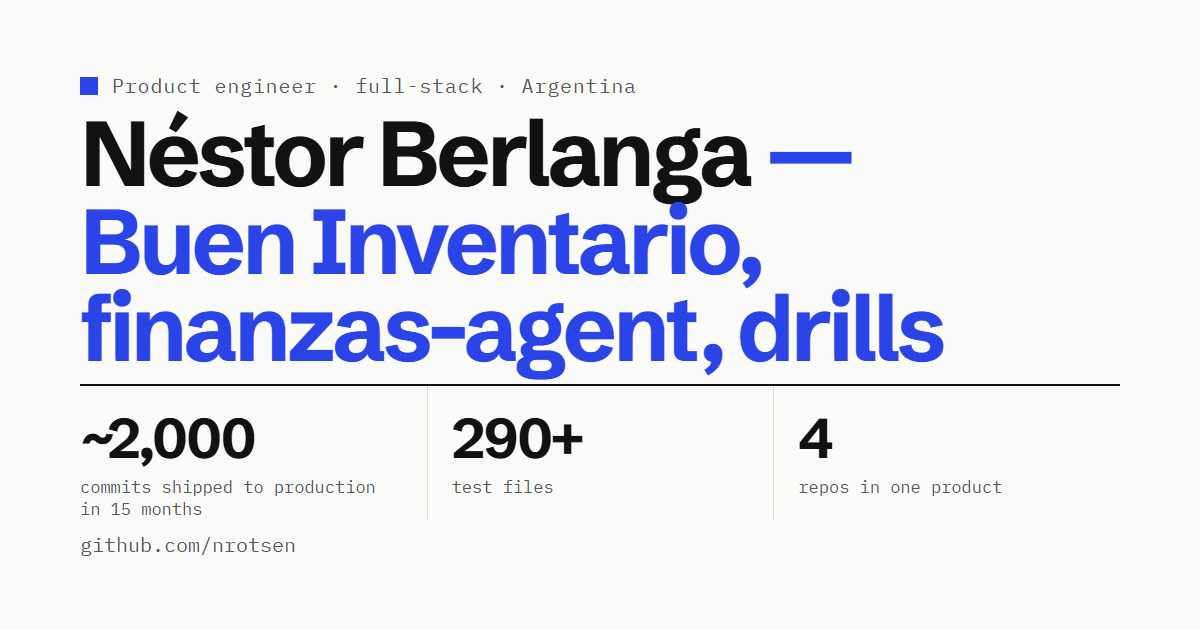
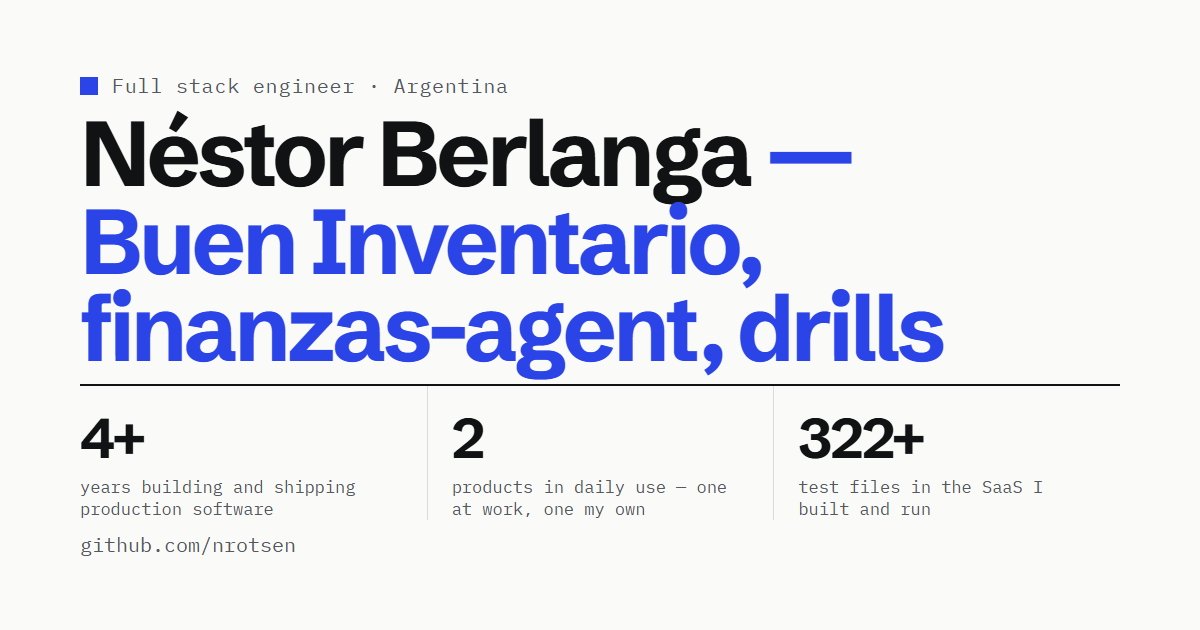
Alinear el contenido con el perfil de LinkedIn
El cargo pasa a "Full stack engineer" en el título, el hero, el OG y el
JSON-LD, que es el que quedó en LinkedIn y el que buscan los recruiters.

Andes Docs suma lo que faltaba contar: la plataforma de finanzas y
facturación con ARCA, la conciliación bancaria con IA, las features de LLM,
la API pública y el trabajo de control de acceso, con el stack que usan.

El contacto deja de pedir roles senior.

diff --git a/src/content/es.ts b/src/content/es.ts
@@ -24,10 +24,10 @@ export const es: SiteContent = {
   lang: 'es',
 
   meta: {
-    title: `${FULL_NAME} — Product engineer · full-stack`,
+    title: `${FULL_NAME} — Full stack engineer`,
     description:
-      'Product engineer, full-stack. Diseñé, construí y opero Buen Inventario, un SaaS para comercios argentinos. Casos: Buen Inventario, finanzas-agent, software-engineering-drills.',
-    ogImageAlt: `${FULL_NAME} — product engineer, full-stack. Argentina, trabajo remoto.`,
+      'Full stack engineer: Node.js, TypeScript, React y AWS, con features de LLM en producción. Diseñé, construí y opero Buen Inventario, un SaaS para comercios argentinos. Casos: Buen Inventario, finanzas-agent, software-engineering-drills.',
+    ogImageAlt: `${FULL_NAME} — full stack engineer. Argentina, trabajo remoto.`,
     ogLocale: 'es_AR',
   },
 
@@ -35,7 +35,7 @@ export const es: SiteContent = {
 
   nav: {
     markAriaLabel: `${FULL_NAME} — inicio`,
-    markRole: '/ product engineer',
+    markRole: '/ full stack engineer',
     primaryAriaLabel: 'Principal',
     menuLabel: 'Menú',
     links: [
@@ -54,7 +54,7 @@ export const es: SiteContent = {
   },
 
   hero: {
-    eyebrowMain: 'Product engineer · full-stack · Argentina',
+    eyebrowMain: 'Full stack engineer · Argentina',
     eyebrowAside: 'Trabajo remoto',
     headline:
       'Construyo productos de punta a punta: desde la *base de datos* hasta el *botón de checkout*.',
@@ -89,25 +89,33 @@ export const es: SiteContent = {
       plainLead:
         'Una plataforma de contratos que usan inmobiliarias, desarrolladoras, empresas de transporte y equipos legales de Argentina. Arman un documento respondiendo unas preguntas, lo firman con validez jurídica y les avisa antes de que venza — todo desde el navegador.',
       oneLiner:
-        'Trabajo sobre todo el stack: las APIs REST en Node y TypeScript, las interfaces de React que van encima, y las integraciones sobre las que se apoya el producto — firma electrónica, autenticación, propiedades, mails y WhatsApp.',
+        'Trabajo sobre todo el stack: las APIs REST en Node y TypeScript, las interfaces de React y Next.js que van encima, la infraestructura de AWS que va abajo, y las features de LLM y las integraciones sobre las que se apoya el producto — firma electrónica, facturación, autenticación, mails y WhatsApp.',
       meta: {
         yearLabel: 'Año',
         year: 'Jun 2023 → hoy',
         roleLabel: 'Rol',
-        role: 'Full-stack product engineer',
+        role: 'Full stack engineer',
         stackLabel: 'Stack',
         stack: [
           'Node.js',
           'TypeScript',
           'Express',
+          'Next.js',
           'React',
-          'Material UI',
           'Redux Toolkit',
+          'Material UI',
+          'Tailwind',
           'Jotai',
           'DynamoDB',
           'S3',
+          'SES',
+          'Secrets Manager',
+          'CloudWatch',
           'Auth0',
           'ZapSign',
+          'Claude API',
+          'Zod',
+          'Vitest',
           '.NET',
           'SendGrid',
           'WhatsApp API',
@@ -147,12 +155,32 @@ export const es: SiteContent = {
           body: 'Tomo las decisiones técnicas del producto y entrego features de punta a punta, del modelo de datos a la pantalla. También reviso código y atiendo el soporte técnico a clientes.',
         },
         {
+          title: 'Una plataforma de finanzas y facturación, desde cero.',
+          body: 'Planes, contratos, facturación por uso según las firmas, y tableros de resultados y presupuesto, sobre Next.js y DynamoDB, con más de 100 archivos de test. Emite facturas electrónicas por ARCA: web services SOAP, firma con certificado, credenciales en AWS Secrets Manager y los PDF fiscales en S3.',
+        },
+        {
+          title: 'La IA propone, las reglas deciden.',
+          body: 'Un motor de conciliación bancaria donde Claude vincula pagos con facturas y reglas determinísticas revisan cada vínculo: uno que la IA encontró sola nunca puede quedar marcado como de confianza alta. Reintentos, prompt caching y un set de evaluación con umbrales de precisión y recall.',
+        },
+        {
+          title: 'Features de LLM adentro del producto.',
+          body: 'Un analizador de DOCX y un generador de plantillas sobre la API de Claude, transmitidos al navegador por SSE.',
+        },
+        {
           title: 'Prueba que resiste a un auditor.',
-          body: 'Una feature de prevención de lavado de dinero que mete el resultado del chequeo en listas restrictivas adentro del PDF firmado. Quien tiene obligación de reportar se queda con un solo documento a prueba de alteraciones, en vez de un contrato más un informe aparte que nadie puede vincular.',
+          body: 'Una feature de prevención de lavado de dinero que mete el resultado del chequeo en listas restrictivas adentro del PDF firmado. Quien tiene obligación de reportar se queda con un solo documento a prueba de alteraciones, en vez de un contrato más un informe aparte que nadie puede vincular. Alrededor: validación de DNI, alertas de personas expuestas políticamente y un registro de auditoría de cada consulta.',
+        },
+        {
+          title: 'Una API pública para partners.',
+          body: 'Una API REST sobre la que construyen otras empresas: API keys acotadas por empresa, paginación por cursor y documentación en Swagger.',
         },
         {
           title: 'Un fin de semana para sacar un punto único de falla.',
           body: 'El proveedor de la integración de edición de documentos la discontinuó. Escribí un microservicio en `.NET` desde cero para reemplazarla en un fin de semana, y con eso se fue la dependencia de una empresa de afuera.',
+        },
+        {
+          title: 'Control de acceso, reforzado.',
+          body: 'Chequeos de rol y de propiedad en toda la API, y el arreglo de un camino de escalada de privilegios en la gestión de usuarios.',
         },
         {
           title: 'Las integraciones sobre las que se apoya el producto.',
@@ -198,7 +226,7 @@ export const es: SiteContent = {
         yearLabel: 'Año',
         year: '2025 → hoy',
         roleLabel: 'Rol',
-        role: 'Fundador e ingeniero',
+        role: 'Fundador y full stack engineer',
         stackLabel: 'Stack',
         stack: [
           'TypeScript',
@@ -485,23 +513,28 @@ export const es: SiteContent = {
           { key: 'Backend', value: 'Node.js, TypeScript, Express, NestJS, APIs REST, C# / .NET' },
           {
             key: 'Frontend',
-            value: 'React, Next.js, Redux Toolkit, Zustand, Jotai, Material UI, shadcn/ui',
+            value:
+              'React, Next.js, Redux Toolkit, Zustand, Jotai, Material UI, Tailwind, shadcn/ui',
           },
           {
             key: 'IA / LLM',
             value:
-              'Claude API, tool calling y loops agénticos, structured outputs (JSON Schema). Trabajo AI-native todos los días con Claude Code, y reviso y me hago cargo de todo lo que entrego.',
+              'Claude API, tool calling y loops agénticos, structured outputs (JSON Schema), prompt caching, evals. Trabajo AI-native todos los días con Claude Code, y reviso y me hago cargo de todo lo que entrego.',
           },
           {
             key: 'Cloud (AWS)',
-            value: 'Lambda, API Gateway, S3, DynamoDB, IAM, CloudWatch, AWS SAM (IaC)',
+            value:
+              'Lambda, API Gateway, S3, DynamoDB, SES, Secrets Manager, IAM, CloudWatch, AWS SAM (IaC)',
           },
           {
             key: 'Datos e integraciones',
             value:
-              'PostgreSQL, DynamoDB, Prisma, SQL · ZapSign, Auth0, WhatsApp API, SendGrid, facturación electrónica ARCA',
+              'PostgreSQL, DynamoDB, Prisma, SQL, Zod · ZapSign, Auth0, WhatsApp API, SendGrid, facturación electrónica ARCA (SOAP)',
           },
-          { key: 'Herramientas', value: 'Git, Docker, Python, tests unitarios y de integración' },
+          {
+            key: 'Herramientas',
+            value: 'Git, Docker, Python, Vitest, tests unitarios y de integración',
+          },
         ],
       },
       {
@@ -529,7 +562,7 @@ export const es: SiteContent = {
 
   contact: {
     headline: 'Construyamos algo que funcione un *lunes a la mañana*.',
-    sub: 'Abierto a roles senior de producto / full-stack, remotos. Vivo en Buenos Aires (UTC-3).',
+    sub: 'Abierto a roles full stack, backend y de producto, remotos. Vivo en Buenos Aires (UTC-3).',
     links: [
       { key: 'Email', value: EMAIL, href: `mailto:${EMAIL}`, external: false },
       { key: 'GitHub', value: GITHUB_HANDLE, href: GITHUB_URL, external: true },

diff --git a/src/content/en.ts b/src/content/en.ts
@@ -24,10 +24,10 @@ export const en: SiteContent = {
   lang: 'en',
 
   meta: {
-    title: `${FULL_NAME} — Product engineer · full-stack`,
+    title: `${FULL_NAME} — Full stack engineer`,
     description:
-      'Product engineer, full-stack. I designed, built and run Buen Inventario, a SaaS for small Argentine retailers. Case studies: Buen Inventario, finanzas-agent, software-engineering-drills.',
-    ogImageAlt: `${FULL_NAME} — product engineer, full-stack. Argentina, works remote.`,
+      'Full stack engineer: Node.js, TypeScript, React and AWS, with LLM-powered features in production. I designed, built and run Buen Inventario, a SaaS for small Argentine retailers. Case studies: Buen Inventario, finanzas-agent, software-engineering-drills.',
+    ogImageAlt: `${FULL_NAME} — full stack engineer. Argentina, works remote.`,
     ogLocale: 'en_US',
   },
 
@@ -35,7 +35,7 @@ export const en: SiteContent = {
 
   nav: {
     markAriaLabel: `${FULL_NAME} — home`,
-    markRole: '/ product engineer',
+    markRole: '/ full stack engineer',
     primaryAriaLabel: 'Primary',
     menuLabel: 'Menu',
     links: [
@@ -54,7 +54,7 @@ export const en: SiteContent = {
   },
 
   hero: {
-    eyebrowMain: 'Product engineer · full-stack · Argentina',
+    eyebrowMain: 'Full stack engineer · Argentina',
     eyebrowAside: 'Works remote',
     headline: 'I build products end to end — from the *database* to the *checkout button*.',
     sub: "I'm the main developer on Andes Docs, a contract platform Argentine companies use every day, and I designed, built and run Buen Inventario, a SaaS for small shops. I like the unglamorous parts: idempotent webhooks, honest numbers, tests that guard the architecture.",
@@ -85,25 +85,33 @@ export const en: SiteContent = {
       plainLead:
         'A contract platform used by Argentine real-estate agencies, property developers, transport companies and legal teams. They build a document by answering a few questions, sign it with full legal validity, and get warned before it expires — without leaving the browser.',
       oneLiner:
-        'I work across the whole stack: the REST APIs in Node and TypeScript, the React interfaces on top of them, and the integrations the product leans on — e-signature, authentication, listings, email and WhatsApp.',
+        'I work across the whole stack: the REST APIs in Node and TypeScript, the React and Next.js interfaces on top of them, the AWS infrastructure underneath, and the LLM features and integrations the product leans on — e-signature, tax invoicing, authentication, email and WhatsApp.',
       meta: {
         yearLabel: 'Year',
         year: 'Jun 2023 → today',
         roleLabel: 'Role',
-        role: 'Full-stack product engineer',
+        role: 'Full stack engineer',
         stackLabel: 'Stack',
         stack: [
           'Node.js',
           'TypeScript',
           'Express',
+          'Next.js',
           'React',
-          'Material UI',
           'Redux Toolkit',
+          'Material UI',
+          'Tailwind',
           'Jotai',
           'DynamoDB',
           'S3',
+          'SES',
+          'Secrets Manager',
+          'CloudWatch',
           'Auth0',
           'ZapSign',
+          'Claude API',
+          'Zod',
+          'Vitest',
           '.NET',
           'SendGrid',
           'WhatsApp API',
@@ -143,12 +151,32 @@ export const en: SiteContent = {
           body: 'I own technical decisions across the product and ship features end to end, from the data model to the screen. I also review code and handle technical client support.',
         },
         {
+          title: 'A finance and billing platform, from scratch.',
+          body: "Plans, contracts, usage-based billing per signature, and P&L and budget dashboards, on Next.js and DynamoDB, covered by 100+ test files. It issues electronic invoices through ARCA, Argentina's tax authority: SOAP web services, certificate signing, credentials in AWS Secrets Manager and the fiscal PDFs in S3.",
+        },
+        {
+          title: 'AI proposes, rules decide.',
+          body: 'A bank-reconciliation engine where Claude matches payments to invoices and deterministic rules cross-check every match: one the AI found on its own can never be marked high confidence. Retries, prompt caching, and an eval set with precision and recall thresholds.',
+        },
+        {
+          title: 'LLM features inside the product.',
+          body: 'A DOCX analyzer and a template generator on the Claude API, streamed to the browser over SSE.',
+        },
+        {
           title: 'Proof that stands up to an auditor.',
-          body: 'An anti-money-laundering feature that embeds watchlist-screening results inside the signed PDF itself. Clients with reporting obligations get one tamper-evident document instead of a contract plus a separate report nobody can tie back to it.',
+          body: 'An anti-money-laundering feature that embeds watchlist-screening results inside the signed PDF itself. Clients with reporting obligations get one tamper-evident document instead of a contract plus a separate report nobody can tie back to it. Around it: national ID validation, alerts for politically exposed persons and an audit log of every check.',
+        },
+        {
+          title: 'A public API for partners.',
+          body: 'A REST API other companies build on: API keys scoped per company, cursor pagination and Swagger docs.',
         },
         {
           title: 'A weekend rebuild to remove a single point of failure.',
           body: 'The vendor behind the document-editing integration discontinued it. I wrote a `.NET` microservice from scratch to replace it over a weekend, and the dependency on an outside company went away with it.',
+        },
+        {
+          title: 'Access control, hardened.',
+          body: 'Role and ownership checks across the API, and a fix for a privilege-escalation path in user management.',
         },
         {
           title: 'The integrations the product leans on.',
@@ -194,7 +222,7 @@ export const en: SiteContent = {
         yearLabel: 'Year',
         year: '2025 → today',
         roleLabel: 'Role',
-        role: 'Founder & engineer',
+        role: 'Founder & full stack engineer',
         stackLabel: 'Stack',
         stack: [
           'TypeScript',
@@ -481,23 +509,25 @@ export const en: SiteContent = {
           { key: 'Backend', value: 'Node.js, TypeScript, Express, NestJS, REST APIs, C# / .NET' },
           {
             key: 'Frontend',
-            value: 'React, Next.js, Redux Toolkit, Zustand, Jotai, Material UI, shadcn/ui',
+            value:
+              'React, Next.js, Redux Toolkit, Zustand, Jotai, Material UI, Tailwind, shadcn/ui',
           },
           {
             key: 'AI / LLM',
             value:
-              'Claude API, LLM tool calling and agentic loops, structured outputs (JSON Schema). I work AI-native every day with Claude Code, and I own and review everything I ship.',
+              'Claude API, LLM tool calling and agentic loops, structured outputs (JSON Schema), prompt caching, evals. I work AI-native every day with Claude Code, and I own and review everything I ship.',
           },
           {
             key: 'Cloud (AWS)',
-            value: 'Lambda, API Gateway, S3, DynamoDB, IAM, CloudWatch, AWS SAM (IaC)',
+            value:
+              'Lambda, API Gateway, S3, DynamoDB, SES, Secrets Manager, IAM, CloudWatch, AWS SAM (IaC)',
           },
           {
             key: 'Data & integrations',
             value:
-              'PostgreSQL, DynamoDB, Prisma, SQL · ZapSign, Auth0, WhatsApp API, SendGrid, ARCA e-invoicing',
+              'PostgreSQL, DynamoDB, Prisma, SQL, Zod · ZapSign, Auth0, WhatsApp API, SendGrid, ARCA e-invoicing (SOAP)',
           },
-          { key: 'Tools', value: 'Git, Docker, Python, unit and integration testing' },
+          { key: 'Tools', value: 'Git, Docker, Python, Vitest, unit and integration testing' },
         ],
       },
       {
@@ -525,7 +555,7 @@ export const en: SiteContent = {
 
   contact: {
     headline: "Let's build something that works on a *Monday morning*.",
-    sub: 'Open to senior product / full-stack roles, remote. Based in Buenos Aires (UTC-3).',
+    sub: 'Open to full stack, backend and product engineering roles, remote. Based in Buenos Aires (UTC-3).',
     links: [
       { key: 'Email', value: EMAIL, href: `mailto:${EMAIL}`, external: false },
       { key: 'GitHub', value: GITHUB_HANDLE, href: GITHUB_URL, external: true },

diff --git a/src/content/facts.ts b/src/content/facts.ts
@@ -48,7 +48,7 @@ export const ANDESDOCS_URL = 'https://andesdocs.com';
 export const APPLASH_URL = 'https://www.applashsolutions.com';
 
 export const FULL_NAME = 'Néstor Berlanga';
-export const JOB_TITLE = 'Product engineer · full-stack';
+export const JOB_TITLE = 'Full stack engineer';
 
 const LOCALES: Record<Lang, string> = { en: 'en-US', es: 'es-AR' };
 

diff --git a/index.html b/index.html
@@ -4,7 +4,7 @@
     <meta charset="UTF-8" />
     <meta name="viewport" content="width=device-width, initial-scale=1" />
     <!--head-start-->
-    <title>Néstor Berlanga — Product engineer · full-stack</title>
+    <title>Néstor Berlanga — Full stack engineer</title>
     <!--head-end-->
   </head>
   <body>
